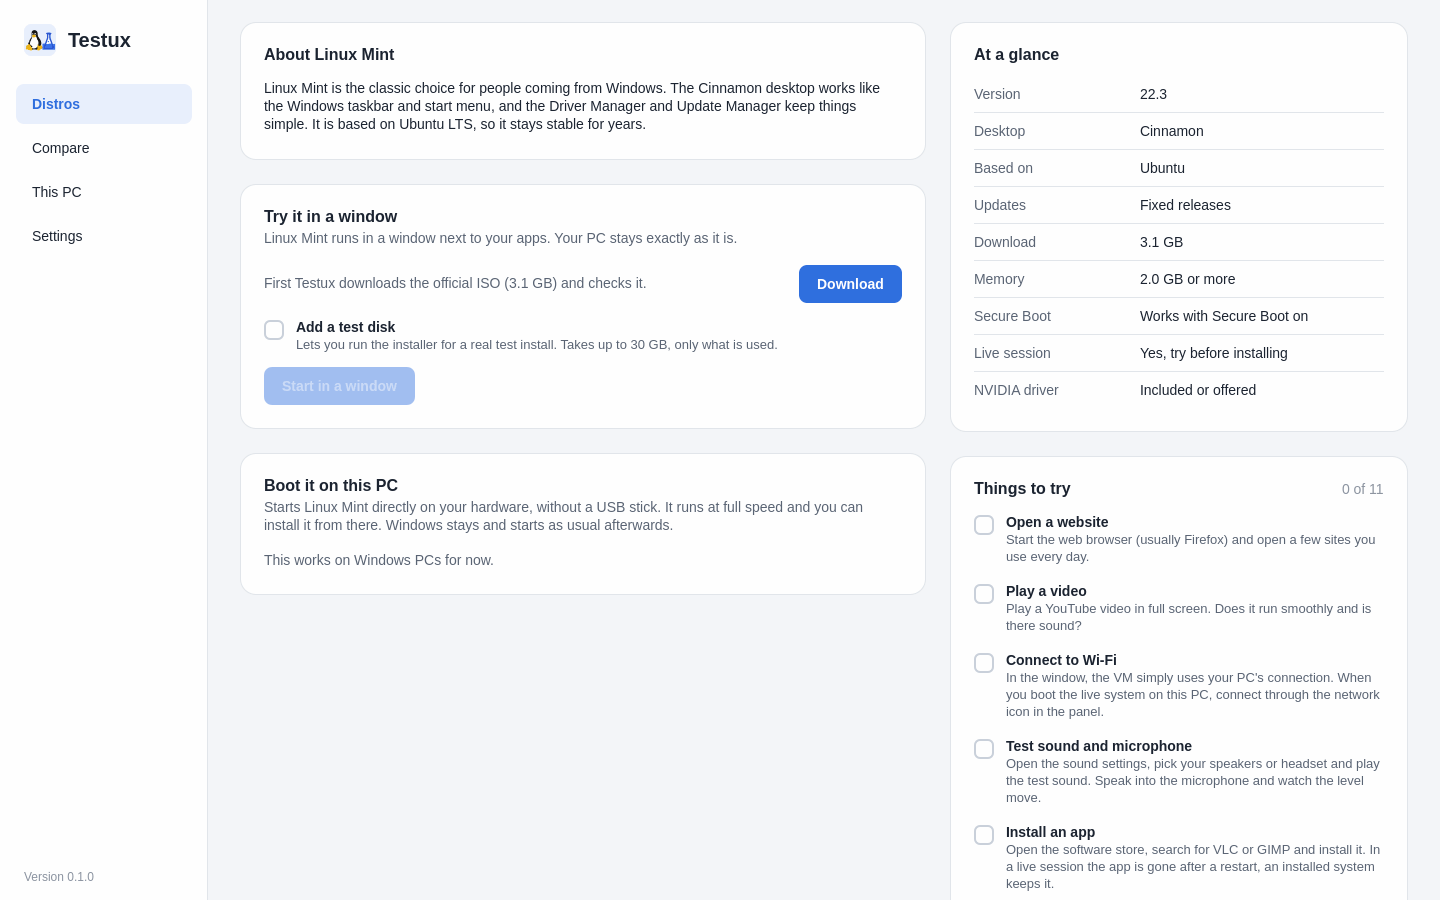
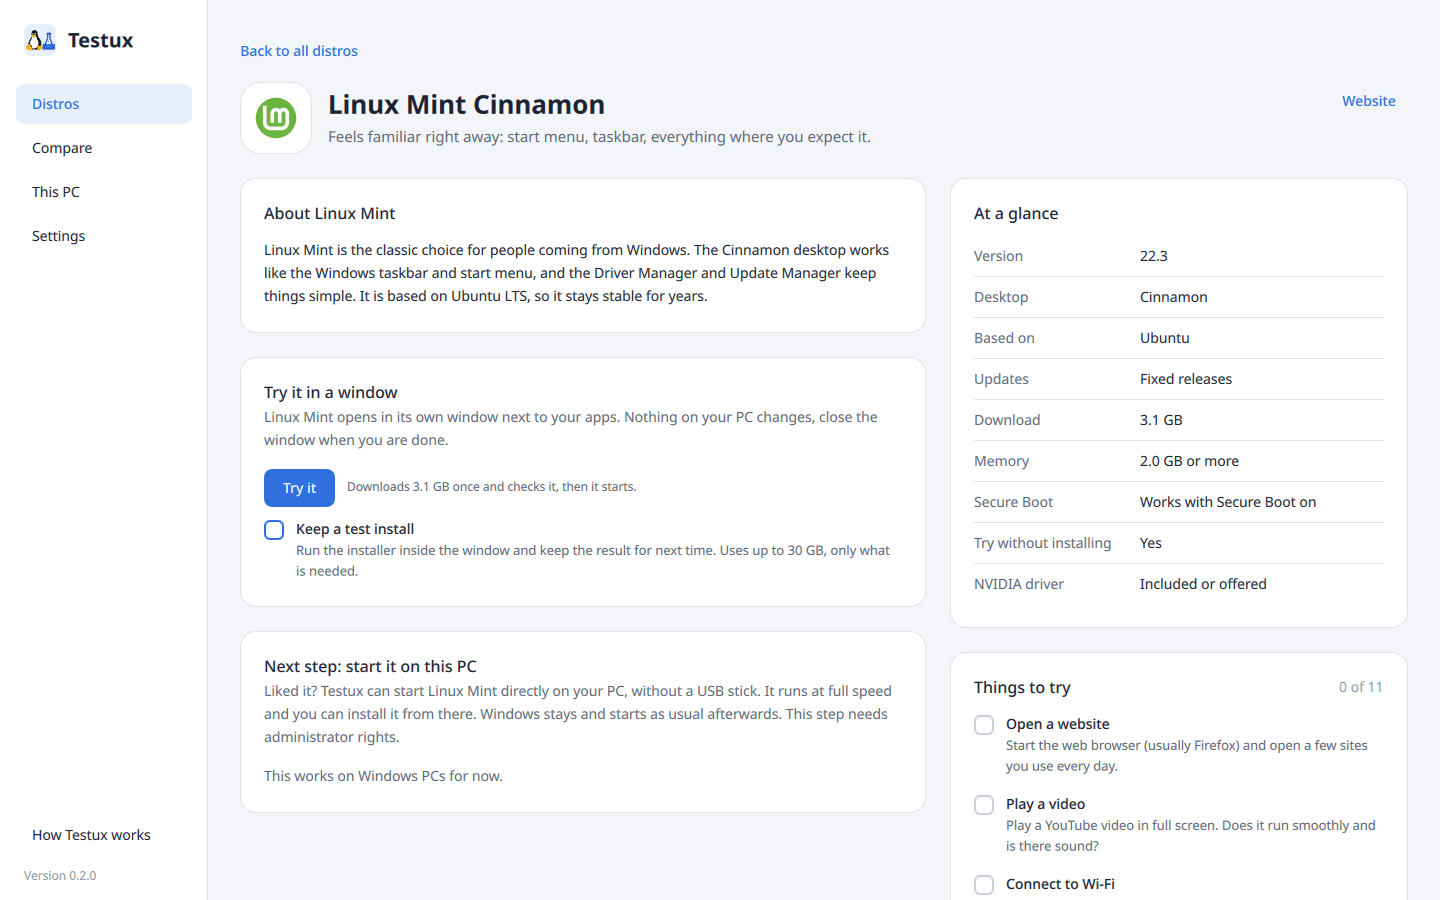
release 0.2.0 (#11)
Version bump, README for the quiz, the Try button, the tour and fast mode,
new screenshots.

diff --git a/README.md b/README.md
@@ -8,45 +8,55 @@ Testux lets you try Linux distributions in a window on your current system, and 
 found one you like, boot its live ISO directly on your PC and install it from there. No
 USB stick needed.
 
-![The Testux distro catalog: a grid of distros with their logos, category tabs, search and filters](assets/screenshots/distros.png)
+![The Testux start page: the "Which Linux suits you?" quiz answered with everyday use, Windows look and no tinkering, suggesting Linux Mint, Zorin OS and Fedora Cinnamon above the list of all distros](assets/screenshots/distros.png)
 
 <table>
   <tr>
-    <td width="33%"><a href="assets/screenshots/filters.png"><img src="assets/screenshots/filters.png" alt="Distro list filtered to KDE Plasma desktops that work with Secure Boot"></a><br><sub>Search and filters</sub></td>
-    <td width="33%"><a href="assets/screenshots/detail.png"><img src="assets/screenshots/detail.png" alt="Linux Mint detail page with the Try it in a window panel, the facts at a glance and the checklist of things to try"></a><br><sub>Try a distro in a window</sub></td>
+    <td width="33%"><a href="assets/screenshots/filters.png"><img src="assets/screenshots/filters.png" alt="Distro list filtered to KDE Plasma desktops that work with Secure Boot, with the extra filters opened"></a><br><sub>Search and filters</sub></td>
+    <td width="33%"><a href="assets/screenshots/detail.png"><img src="assets/screenshots/detail.png" alt="Linux Mint detail page with the Try it button, the facts at a glance and the checklist of things to try"></a><br><sub>Try a distro in a window</sub></td>
     <td width="33%"><a href="assets/screenshots/boot.png"><img src="assets/screenshots/boot.png" alt="Boot wizard for Fedora KDE Plasma, first step: a traffic light of checks such as UEFI, Secure Boot, free space, BitLocker and Fast Startup"></a><br><sub>Boot it on this PC (Windows)</sub></td>
   </tr>
   <tr>
     <td width="33%"><a href="assets/screenshots/compare.png"><img src="assets/screenshots/compare.png" alt="Compare page: a table of all distros with desktop, base, release model, download size, minimum memory, Secure Boot, live session and NVIDIA support"></a><br><sub>Compare distros side by side</sub></td>
     <td width="33%"><a href="assets/screenshots/this-pc.png"><img src="assets/screenshots/this-pc.png" alt="This PC page showing memory, processor threads, free space, virtualization, boot mode, Secure Boot, graphics and Wi-Fi"></a><br><sub>What Testux found out about your PC</sub></td>
-    <td width="33%"></td>
+    <td width="33%"><a href="assets/screenshots/tour.png"><img src="assets/screenshots/tour.png" alt="The first-start tour highlighting the quiz with the text Not sure where to start?"></a><br><sub>A short tour on first start</sub></td>
   </tr>
 </table>
 
 ## Who it is for
 
-- **Windows users who are curious about Linux.** Click a distro, it downloads and starts in
-  a window. Poke around, open the app store, check if your games and tools are there. If it
+- **Windows users who are curious about Linux.** Answer three questions or pick a distro,
+  press Try it, and it downloads and starts in a window. No administrator rights needed. Poke around, open the app store, check if your games and tools are there. If it
   feels right, Testux prepares your PC so it can boot that distro for real.
 - **Linux users who hop distros.** Try the newest Fedora, CachyOS or openSUSE in a VM
   without hunting for ISOs, checksums and QEMU flags.
 
 ## Features
 
+- **Which Linux suits you?** Three quick questions (what you use your PC for, how it should
+  look, how much you want to tinker) and Testux suggests three distros, each with the
+  reason it fits.
+- **One button to try**: Try it downloads the distro once, checks it and opens it in a
+  window by itself.
+- **A short tour** on first start that shows where everything is. It is always one click
+  away under "How Testux works".
 - **Catalog of 88 distros** in eight groups: beginner friendly, KDE Plasma, gaming, older
   PCs, privacy and security, creative and education, for experienced users, and more.
   From Linux Mint, Ubuntu, Fedora and Zorin OS to CachyOS, Bazzite, Tails, NixOS and Arch.
   The catalog is fetched from this repository on every start, so new versions and new
   distros show up without updating the app.
-- **Search and filters**: by name, desktop, base, Secure Boot, live session, NVIDIA driver,
-  release model and whether a distro fits your PC's memory.
+- **Search and filters**: by name and category, plus (under "More filters") desktop, base,
+  Secure Boot, live session, NVIDIA driver, release model and whether a distro fits your
+  PC's memory.
 - **Official ISOs only**, downloaded from the distro's own servers and verified against
-  their published SHA-256 checksums. Downloads resume if they get interrupted.
+  their published SHA-256 checksums. Downloads resume if they get interrupted, after a
+  dropped connection even by themselves.
 - **VM mode**: the live system runs in a QEMU window with hardware acceleration (KVM on
-  Linux, Windows Hypervisor Platform on Windows). RAM and CPU cores are picked
+  Linux, Windows Hypervisor Platform on Windows). It needs no administrator rights; on
+  Windows a "Turn on fast mode" button enables the Hypervisor Platform once if it is off. RAM and CPU cores are picked
   automatically. On Windows, copy and paste works between your system and the VM (the
   QEMU builds of Linux distros leave that feature out).
-- **Optional test disk**: a 30 GB disk (it only takes the space you actually use) so you
+- **Optional test install**: a 30 GB disk (it only takes the space you actually use) so you
   can run the distro's installer inside the VM and keep the installed system.
 - **Hardware check**: Secure Boot, BitLocker, Fast Startup, UEFI, free space, NVIDIA GPU,
   Broadcom Wi-Fi and RAM, shown as a simple traffic light for the distro you picked.
